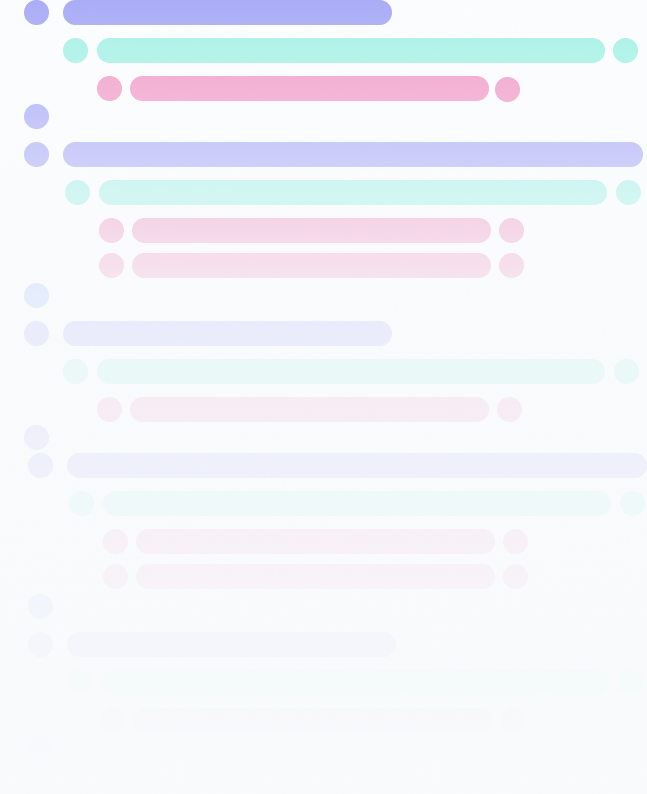
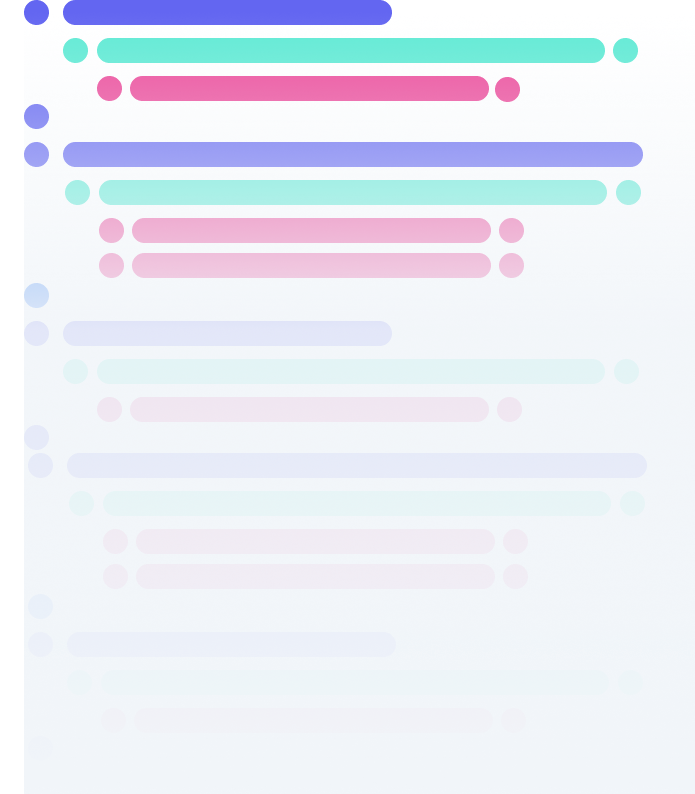
header section responsive design and skeleton img transparent fix

Changed region(s): [[0.0309, 0.1209, 1.0, 0.3627], [0.0309, 0.0, 0.9892, 0.1511], [0.0309, 0.3325, 0.0618, 0.3929]]

diff --git a/components/Home/TitleSection.tsx b/components/Home/TitleSection.tsx
@@ -6,44 +6,80 @@ import Image from 'next/image'
 export default function TitleSection() {
   const { theme } = useTheme()
 
+  // compare till the designer make a transparent img of the skeleton
   const heroBanner =
     theme === 'dark'
-      ? 'bg-[url("/images/skeleton_loader_dark.png")]'
-      : 'bg-[url("/images/skeleton_loader.png")]'
+      ? '/images/skeleton_loader_dark.png'
+      : '/images/skeleton_loader.png'
 
-      const openDiscord = () => {
-        window.open('https://discord.com/invite/a2VyCjRk2M', '_blank');
-      };
+  const openDiscord = () => {
+    window.open('https://discord.com/invite/a2VyCjRk2M', '_blank')
+  }
+
+  // -z-10 md:z-0 opacity-40 md:opacity-100 absolute md:static left-0 top-0 w-[200px] md:w-1/2
 
   return (
-    <div className='relative px-4 md:px-14 flex justify-between h-full pb-10'>
-      <div className='mt-10 md:mt-0 flex flex-col gap-7 w-full md:w-1/2 items-center md:items-start'>
-        <h4 className='w-full font-black text-center md:text-right text-3xl sm:text-5xl'>
+    <div className='relative container md:flex md:justify-between min-w-full h-[calc(100vh-4rem)] lg:h-[calc(100vh-6rem)] max-h-[calc(100vh-4rem)] lg:max-h-[calc(100vh-6rem)]'>
+      <div className='mt-10 pt-10 md:pt-0 md:mt-0 flex flex-col gap-7 lg:gap-7 md:w-1/2 items-center md:items-start'>
+        <h4 className='w-full font-black text-center md:text-right text-4xl md:text-4xl lg:text-5xl'>
           קהילת מעקף&nbsp;-
           <br />
           קוד פתוח ישראל
         </h4>
-        <p className='w-full text-center md:text-right'>
+        <p className='w-full text-center md:text-right md:text-xs lg:text-base'>
           במעקף אנחנו לוקחים חלק משמעותי
           <br />
           בפרוייקטים הפתוחים לציבור על ידי שינוי,
           <br />
           פיתוח, תיקון ושיתוף קוד פתוח
         </p>
-        <button className='text-xs discord-btn rounded-full px-7 py-2 flex items-center justify-center gap-2'
-        onClick={() => openDiscord()}>
+        <button
+          className='text-xs discord-btn rounded-full px-5 py-2 md:px-4 md:py-1 flex items-center justify-center gap-2'
+          onClick={() => openDiscord()}
+        >
           בואו לדיסקורד
-          <Image
-            src={'/images/discord.png'}
-            alt='discord'
-            width={20}
-            height={20}
-          />
+          <div className='relative w-4 h-4 md:w-5 md:h-5 cursor-pointer'>
+            <Image
+              src={'/images/discord.png'}
+              alt='discord'
+              fill
+              style={{ objectFit: 'cover' }}
+            />
+          </div>
         </button>
       </div>
-      <div className='-z-10 md:z-0 opacity-40 md:opacity-100 absolute md:static left-0 top-0 h-full w-full md:w-1/2'>
-        <div
-          className={`h-full bg-contain bg-top md:bg-left bg-no-repeat ${heroBanner}`}
+      <div
+        className='
+        -z-20
+        md:z-0
+        opacity-30
+        dark:opacity-50
+        md:opacity-100
+        absolute
+        min-h-[600px]
+        min-w-full
+        md:min-w-[50%]
+        top-0
+        left-0
+        md:relative
+        md:w-1/2
+        max-w-[50%]
+        xl:min-w-[40%]
+        xl:max-w-[40%]
+        md:min-h-[450px]
+        md:max-h-[450px]
+        lg:min-h-[500px]
+        lg:max-h-[500px]
+        xl:min-h-[550px]
+        xl:max-h-[550px]
+        aspect-[70/45]'
+      >
+        <Image
+          src={heroBanner}
+          alt='skeleton_loader'
+          sizes='(max-width: 768px) 100vw, 750px'
+          fill
+          priority
         />
       </div>
     </div>

diff --git a/components/Header/Header.tsx b/components/Header/Header.tsx
@@ -12,26 +12,26 @@ const Header: React.FC = () => {
   return (
     <>
       <SizeIndicator />
-      <nav className='fixed bg-lightBg dark:bg-darkBg top-0 left-0 w-full z-10 flex justify-between items-center px-5 py-5 max-h-24'>
+      <nav className='fixed bg-lightBg dark:bg-darkBg top-0 left-0 w-full z-10 flex justify-between items-center px-5 py-5 min-h-24 max-h-24'>
         <Darkmode />
-        <ul className='hidden md:flex md:gap-14'>
-          <li className='flex items-center gap-2 cursor-pointer'>
+        <ul className='hidden md:flex md:gap-14 md:text-xs lg:text-sm xl:text-lg'>
+          <li className='flex items-center gap-4 cursor-pointer'>
             <span>קהילה</span>
             {theme === 'dark' ? (
               <Image
                 src={'/images/polygon_white.svg'}
                 alt='polygon'
-                width={10}
-                height={10}
-                style={{ width: 10, height: 10 }}
+                width={0}
+                height={0}
+                className='w-2 h-2'
               />
             ) : (
               <Image
                 src={'/images/polygon_dark.svg'}
                 alt='polygon'
-                width={10}
-                height={10}
-                style={{ width: 10, height: 10 }}
+                width={0}
+                height={0}
+                className='w-2 h-2'
               />
             )}
           </li>
@@ -42,12 +42,12 @@ const Header: React.FC = () => {
             <Link href='/about'>מי אנחנו</Link>
           </li>
         </ul>
-        <Link href='/'>
+        <Link href='/' className='logo-cover'>
           <Image
             src='/images/maakafLogo.png'
             alt='maakafLogo'
-            width={40}
-            height={42}
+            fill
+            style={{ objectFit: 'cover' }}
           />
         </Link>
       </nav>

diff --git a/app/layout.tsx b/app/layout.tsx
@@ -41,12 +41,12 @@ export default function RootLayout({
       dir='rtl'
       className={`${birzia.className} ${inter.variable}`}
     >
-      <body className='h-screen m-0 darkmode-main'>
+      <body className='min-h-screen m-0 darkmode-main'>
         <ContextProvider>
           <header>
             <Header />
           </header>
-          <main className='h-full pt-24 md:pt-32'>{children}</main>
+          <main className='h-full pt-10 md:pt-24'>{children}</main>
           {/* remove mt-5 when developing the footer */}
           <footer className='mt-5'>
             <Footer />

diff --git a/components/Common/Darkmode.tsx b/components/Common/Darkmode.tsx
@@ -8,7 +8,7 @@ const Darkmode: React.FC = () => {
   const currentTheme = theme === 'system' ? systemTheme : theme
 
   return (
-    <div>
+    <div className='logo-cover'>
       <Image
         src={
           currentTheme === 'dark'
@@ -16,9 +16,7 @@ const Darkmode: React.FC = () => {
             : '/images/nightMode.svg'
         }
         alt='switchDarkMode'
-        className='cursor-pointer'
-        width={24}
-        height={24}
+        fill
         onClick={() =>
           currentTheme == 'dark' ? setTheme('light') : setTheme('dark')
         }

diff --git a/app/page.tsx b/app/page.tsx
@@ -1,10 +1,10 @@
-import TitleSection from '@/components/Home/TitleSection';
+import TitleSection from '@/components/Home/TitleSection'
 // import Quote from '@/components/Home/Quote';
-import BeOurFriends from "@/components/BeOurFriends/BeOurFriends";
+import BeOurFriends from '@/components/BeOurFriends/BeOurFriends'
 
 export default function Home() {
   return (
-    <section className='h-full'>
+    <section>
       <TitleSection />
       {/* use after pull request <Quote />*/}
       <BeOurFriends />

diff --git a/app/globals.css b/app/globals.css
@@ -14,6 +14,11 @@
   .discord-btn {
     @apply bg-discordLight dark:bg-discordDark text-lightText dark:text-darkText;
   }
+
+  /* Home */
+  .logo-cover {
+    @apply relative w-7 h-7 cursor-pointer;
+  }
 }
 
 /* @media screen and (min-width: 768px) {
